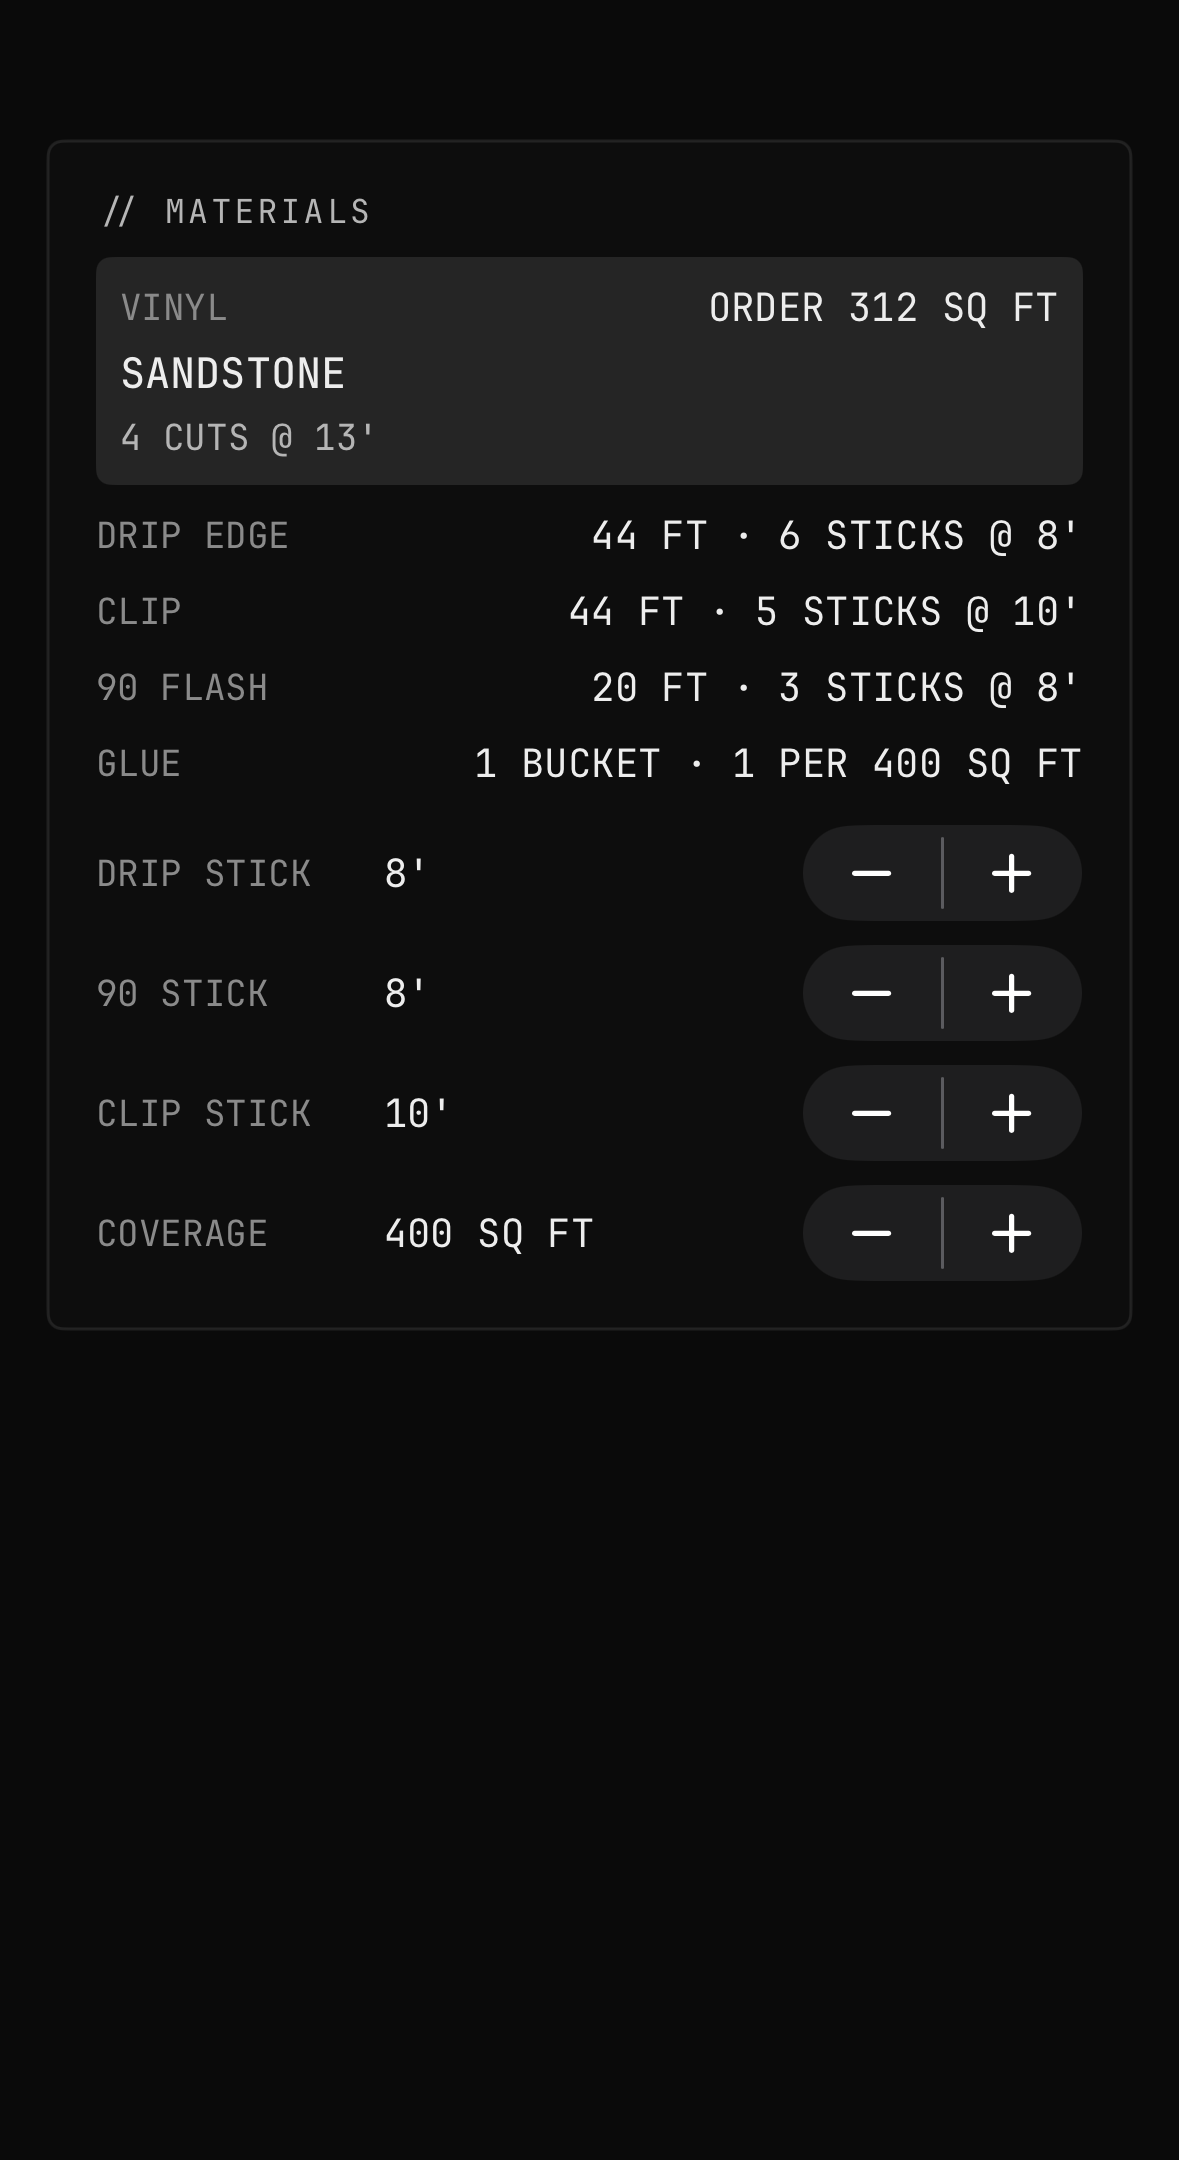
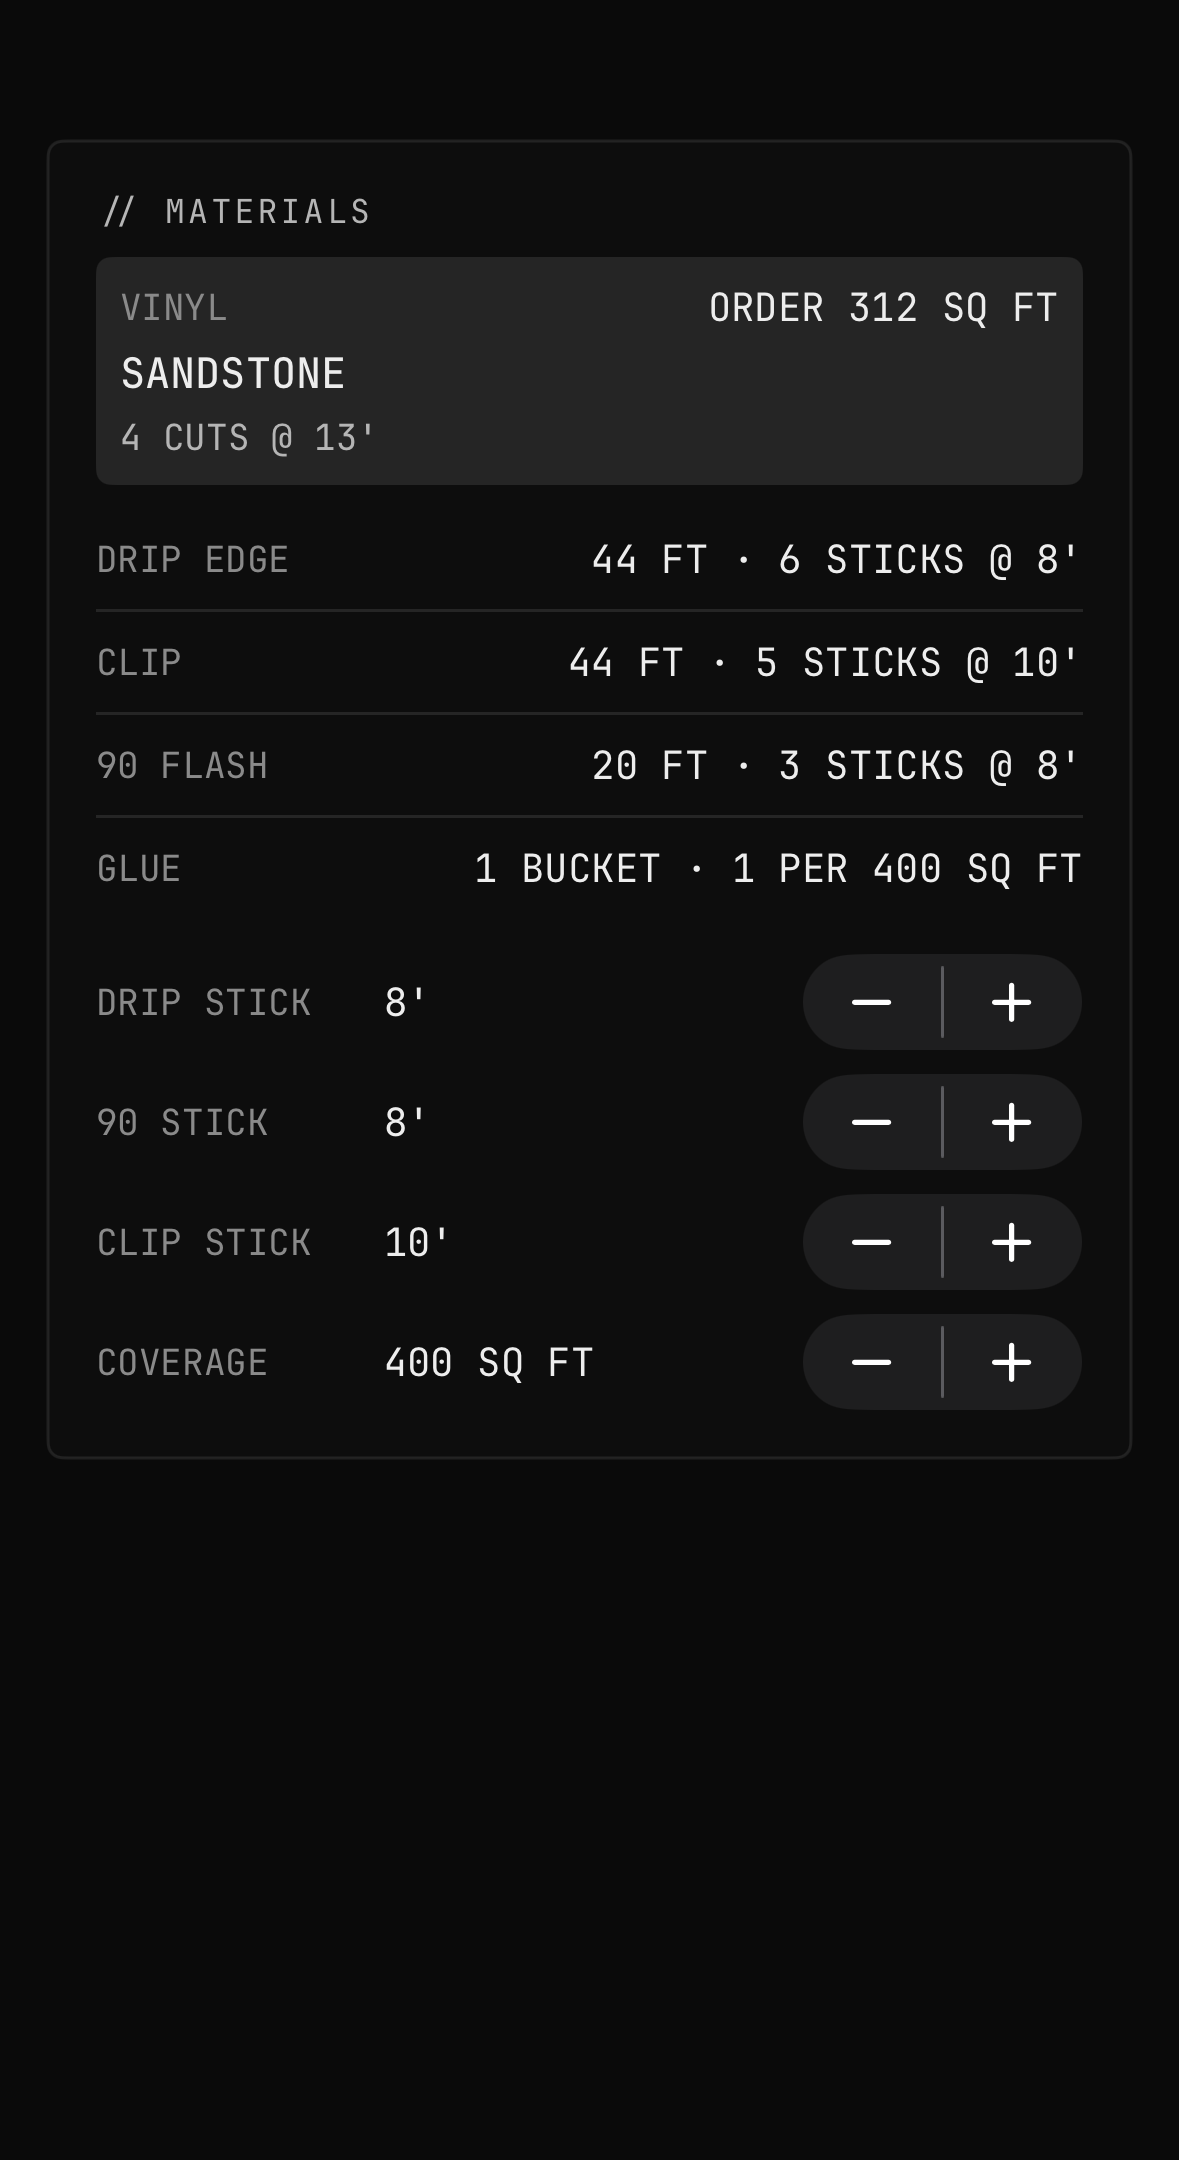
style(deck): hairline dividers + breathing room between materials line items

diff --git a/OPS/Views/Components/Project/Tabs/DeckMaterialsSection.swift b/OPS/Views/Components/Project/Tabs/DeckMaterialsSection.swift
@@ -87,10 +87,12 @@ struct DeckMaterialsSection: View {
                 cuts: liveCutLines(materials),
                 orderedSqFt: materials.vinylPlan.totalOrderedSqFt
             )
-            flashingRow(label: "DRIP EDGE", exactFeet: materials.dripEdge.exactFeet, sticks: materials.dripEdge.sticks, stickFeet: materials.dripEdge.stickFeet)
-            flashingRow(label: "CLIP", exactFeet: materials.clip.exactFeet, sticks: materials.clip.sticks, stickFeet: materials.clip.stickFeet)
-            flashingRow(label: "90 FLASH", exactFeet: materials.ninetyFlash.exactFeet, sticks: materials.ninetyFlash.sticks, stickFeet: materials.ninetyFlash.stickFeet)
-            glueRow(buckets: materials.glueBuckets, coverage: currentSettings.glueCoverageSqFt)
+            metricList([
+                MaterialRow(label: "DRIP EDGE", value: flashingValue(exactFeet: materials.dripEdge.exactFeet, sticks: materials.dripEdge.sticks, stickFeet: materials.dripEdge.stickFeet)),
+                MaterialRow(label: "CLIP", value: flashingValue(exactFeet: materials.clip.exactFeet, sticks: materials.clip.sticks, stickFeet: materials.clip.stickFeet)),
+                MaterialRow(label: "90 FLASH", value: flashingValue(exactFeet: materials.ninetyFlash.exactFeet, sticks: materials.ninetyFlash.sticks, stickFeet: materials.ninetyFlash.stickFeet)),
+                MaterialRow(label: "GLUE", value: glueValue(buckets: materials.glueBuckets, coverage: currentSettings.glueCoverageSqFt))
+            ])
             steppers()
         }
     }
@@ -105,10 +107,12 @@ struct DeckMaterialsSection: View {
                 cuts: snapshotCutLines(snapshot),
                 orderedSqFt: snapshot.vinylOrderedSqFt
             )
-            flashingRow(label: "DRIP EDGE", exactFeet: snapshot.dripEdgeFeet, sticks: snapshot.dripSticks, stickFeet: snapshot.settings.dripStickFeet)
-            flashingRow(label: "CLIP", exactFeet: snapshot.clipFeet, sticks: snapshot.clipSticks, stickFeet: snapshot.settings.clipStickFeet)
-            flashingRow(label: "90 FLASH", exactFeet: snapshot.ninetyFeet, sticks: snapshot.ninetySticks, stickFeet: snapshot.settings.ninetyStickFeet)
-            glueRow(buckets: snapshot.glueBuckets, coverage: snapshot.settings.glueCoverageSqFt)
+            metricList([
+                MaterialRow(label: "DRIP EDGE", value: flashingValue(exactFeet: snapshot.dripEdgeFeet, sticks: snapshot.dripSticks, stickFeet: snapshot.settings.dripStickFeet)),
+                MaterialRow(label: "CLIP", value: flashingValue(exactFeet: snapshot.clipFeet, sticks: snapshot.clipSticks, stickFeet: snapshot.settings.clipStickFeet)),
+                MaterialRow(label: "90 FLASH", value: flashingValue(exactFeet: snapshot.ninetyFeet, sticks: snapshot.ninetySticks, stickFeet: snapshot.settings.ninetyStickFeet)),
+                MaterialRow(label: "GLUE", value: glueValue(buckets: snapshot.glueBuckets, coverage: snapshot.settings.glueCoverageSqFt))
+            ])
 
             Text("ORDERED \(DateHelper.simpleDateString(from: snapshot.orderedAt).uppercased())")
                 .font(OPSStyle.Typography.smallCaption)
@@ -158,19 +162,39 @@ struct DeckMaterialsSection: View {
         .clipShape(RoundedRectangle(cornerRadius: OPSStyle.Layout.cornerRadius))
     }
 
-    private func flashingRow(label: String, exactFeet: Double, sticks: Int, stickFeet: Double) -> some View {
+    /// One label/value line in the materials list. `label` is unique per list,
+    /// so it doubles as the stable identity.
+    private struct MaterialRow: Identifiable {
+        let label: String
         let value: String
-        if exactFeet <= 0 {
-            value = "—"
-        } else {
-            value = "\(Int(ceil(exactFeet))) FT · \(sticks) STICK\(sticks == 1 ? "" : "S") @ \(Int(stickFeet))'"
-        }
-        return metricRow(label, value)
+        var id: String { label }
     }
 
-    private func glueRow(buckets: Int, coverage: Double) -> some View {
-        let value = buckets <= 0 ? "—" : "\(buckets) BUCKET\(buckets == 1 ? "" : "S") · 1 PER \(Int(coverage)) SQ FT"
-        return metricRow("GLUE", value)
+    /// The flashing + glue lines, each given a little vertical room and parted by
+    /// a single hairline so every item reads as its own scannable line
+    /// (glass + hairlines — DESIGN.md). Hairlines sit BETWEEN rows only, never
+    /// leading or trailing.
+    private func metricList(_ rows: [MaterialRow]) -> some View {
+        VStack(spacing: 0) {
+            ForEach(Array(rows.enumerated()), id: \.element.id) { index, row in
+                metricRow(row.label, row.value)
+                    .padding(.vertical, OPSStyle.Layout.spacing2)
+                if index < rows.count - 1 {
+                    Rectangle()
+                        .fill(OPSStyle.Colors.line)
+                        .frame(height: OPSStyle.Layout.Border.standard)
+                }
+            }
+        }
+    }
+
+    private func flashingValue(exactFeet: Double, sticks: Int, stickFeet: Double) -> String {
+        guard exactFeet > 0 else { return "—" }
+        return "\(Int(ceil(exactFeet))) FT · \(sticks) STICK\(sticks == 1 ? "" : "S") @ \(Int(stickFeet))'"
+    }
+
+    private func glueValue(buckets: Int, coverage: Double) -> String {
+        buckets <= 0 ? "—" : "\(buckets) BUCKET\(buckets == 1 ? "" : "S") · 1 PER \(Int(coverage)) SQ FT"
     }
 
     private func metricRow(_ label: String, _ value: String) -> some View {
